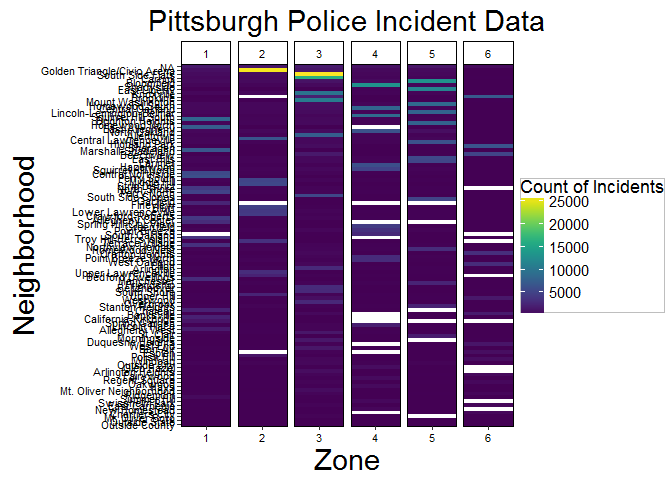
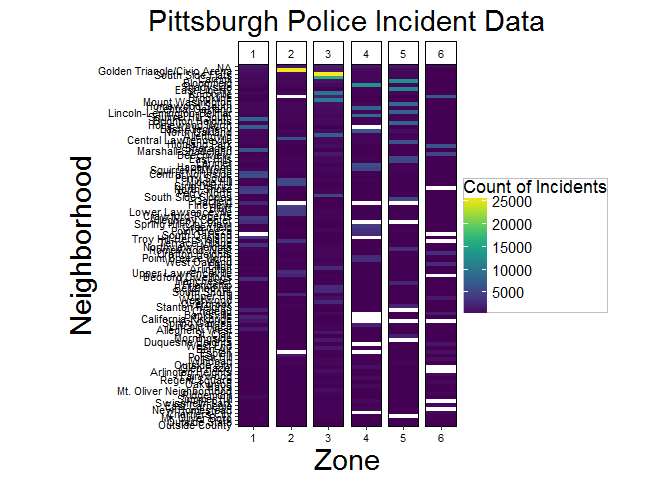
updated code

diff --git a/Data_Problem_Analysis.md b/Data_Problem_Analysis.md
@@ -433,7 +433,8 @@ ggplot(df_zone_nbh, aes(zone, reorder(neighborhood, n), fill = n)) +
   scale_y_discrete(expand = c(0,0)) +
   theme(axis.text = element_text(size = 8),
         strip.text = element_text(size = 8),
-        panel.grid = element_blank())
+        panel.grid = element_blank(),
+        aspect.ratio= 12/1)
 ```
 
 ![](Data_Problem_Analysis_files/figure-markdown_github/zone%20vs%20nbh%20plot-1.png)
